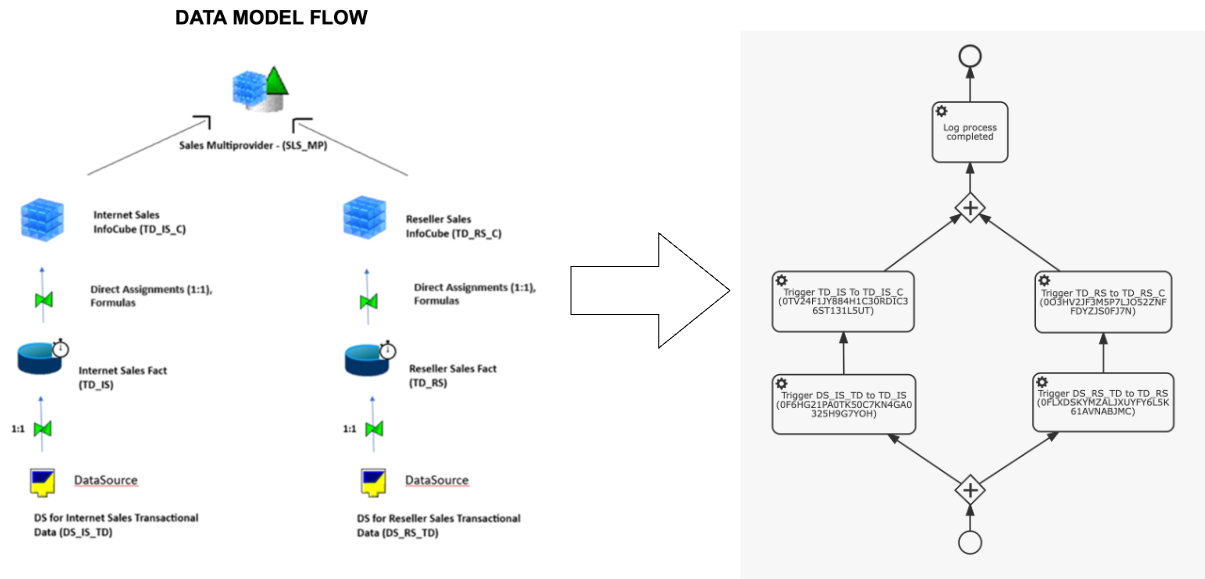
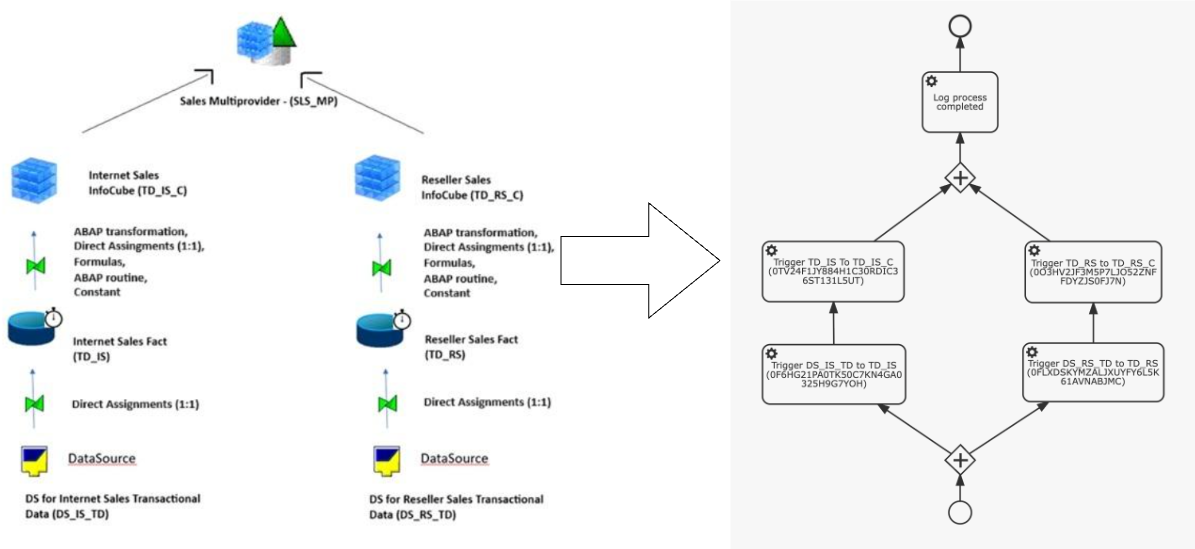
update data model flow diagrams

diff --git a/docs/technology/2025/07/kronos-bw-migration.md b/docs/technology/2025/07/kronos-bw-migration.md
@@ -104,7 +104,7 @@ Sales Channels:
 Each channel has its own independent data acquisition and processing pipeline, yet they are ultimately consolidated for unified analysis.
 
    <a href="/images/2025-07-21-kronos-bw-migration/data-model-flow.png" target="_blank">
-   <img src="/images/2025-07-21-kronos-bw-migration/data-model-flow.png" alt="data-model-flow.png" style="width: 80%;">
+   <img src="/images/2025-07-21-kronos-bw-migration/data-model-flow.png" alt="data-model-flow.png" style="width: 90%;">
    </a>
 
 Data Flow Description:
@@ -133,7 +133,7 @@ The InfoCubes for both Internet and Reseller Sales are combined into a Multiprov
 - Compare performance between Internet and Reseller sales.
 - Generate comprehensive reports for management insights.
 
-You can find more details about the scenario [in the description file here.](https://github.com/codbex/codbex-sample-kronos-bw-sales-migration/blob/017d99aea61e819e00af3153930b8d149c93a86b/docs/scenario/Description.docx.pdf)
+You can find more details about the scenario [in the description file here.](https://github.com/codbex/codbex-sample-kronos-bw-sales-migration/blob/c7d9e1720b4996da1dfb764636ba320bcb181e06/docs/scenario/Description.docx.pdf)
 
 ### Sample Project Implementation
 
@@ -184,7 +184,7 @@ Once the Kronos instance is up and running, you can open and run the sample proj
    Since this is an asynchronous process, it may take a few seconds for all components to be fully initialized.
 
 #### Define BW Objects in the Target Platform
-To simplify the setup and avoid using external data migration tools, all BW structures used in the scenario—such as tables for DataSources, DSOs, and Cubes—are predefined in the Kronos [Database Schema Model (DSM)](/documentation/platform/artefacts/dsm) file: [sales/db/db-schema.dsm](https://github.com/codbex/codbex-sample-kronos-bw-sales-migration/blob/017d99aea61e819e00af3153930b8d149c93a86b/sales/db/db-schema.dsm):
+To simplify the setup and avoid using external data migration tools, all BW structures used in the scenario—such as tables for DataSources, DSOs, and Cubes—are predefined in the Kronos [Database Schema Model (DSM)](/documentation/platform/artefacts/dsm) file: [sales/db/db-schema.dsm](https://github.com/codbex/codbex-sample-kronos-bw-sales-migration/blob/c7d9e1720b4996da1dfb764636ba320bcb181e06/sales/db/db-schema.dsm):
 <a href="/images/2025-07-21-kronos-bw-migration/dsm.png" target="_blank">
 <img src="/images/2025-07-21-kronos-bw-migration/dsm.png" alt="dsm.png">
 </a>
@@ -192,23 +192,23 @@ To simplify the setup and avoid using external data migration tools, all BW stru
 This schema is automatically applied when the project is published, creating all required tables in the target platform with no manual setup needed.
 
 #### Import Sample Data
-Following the same approach, sample data for the scenario is provided as CSV files located in dir: [sales/db/](https://github.com/codbex/codbex-sample-kronos-bw-sales-migration/blob/017d99aea61e819e00af3153930b8d149c93a86b/sales/db)
+Following the same approach, sample data for the scenario is provided as CSV files located in dir: [sales/db/](https://github.com/codbex/codbex-sample-kronos-bw-sales-migration/blob/c7d9e1720b4996da1dfb764636ba320bcb181e06/sales/db)
 
 These CSV files are automatically imported into the target platform during project publishing. This makes it possible to initialize the environment without relying on any external data migration tools.
 
-All CSV files which are used are configured in [CSVIM](/documentation/platform/artefacts/csvim) file [sales/db/data.csvim](https://github.com/codbex/codbex-sample-kronos-bw-sales-migration/blob/017d99aea61e819e00af3153930b8d149c93a86b/sales/db/data.csvim)
+All CSV files which are used are configured in [CSVIM](/documentation/platform/artefacts/csvim) file [sales/db/data.csvim](https://github.com/codbex/codbex-sample-kronos-bw-sales-migration/blob/c7d9e1720b4996da1dfb764636ba320bcb181e06/sales/db/data.csvim)
 
 ✅ This simplified setup works out of the box across supported platforms, including H2, Snowflake, PostgreSQL, and HANA.
 
 #### Export BW Transformation Logic
 The ABAP transformation logic originally defined in SAP BW is exported using a dedicated export tool.
-In the sample project, the exported transformations are stored as `.abap` files in the following directory: [sales/src/](https://github.com/codbex/codbex-sample-kronos-bw-sales-migration/blob/017d99aea61e819e00af3153930b8d149c93a86b/sales/src)
+In the sample project, the exported transformations are stored as `.abap` files in the following directory: [sales/src/](https://github.com/codbex/codbex-sample-kronos-bw-sales-migration/blob/c7d9e1720b4996da1dfb764636ba320bcb181e06/sales/src)
 
 #### Transpile ABAP to JavaScript
 When the project is published in Kronos, the exported ABAP transformation logic from dir `sales/src/` is **automatically transpiled to JavaScript**. This makes it executable within Kronos during ETL processing.
 
 The transpilation is triggered by the build scripts defined in the project's configuration file
-[sales/project.json](https://github.com/codbex/codbex-sample-kronos-bw-sales-migration/blob/017d99aea61e819e00af3153930b8d149c93a86b/sales/project.json) when the project is published.
+[sales/project.json](https://github.com/codbex/codbex-sample-kronos-bw-sales-migration/blob/c7d9e1720b4996da1dfb764636ba320bcb181e06/sales/project.json) when the project is published.
 
 The generated JavaScript files are stored in the `sales/dist/` folder of the project.
 <a href="/images/2025-07-21-kronos-bw-migration/dist-folder.png" target="_blank">
@@ -216,12 +216,12 @@ The generated JavaScript files are stored in the `sales/dist/` folder of the pro
 </a>
 
 #### Rebuild Transformations as ETL Camel Routes
-Each transformation in the sample scenario is implemented as a reusable ETL [Camel route](/documentation/platform/artefacts/camel) located at [sales/etl/etl-route.camel](https://github.com/codbex/codbex-sample-kronos-bw-sales-migration/blob/017d99aea61e819e00af3153930b8d149c93a86b/sales/etl/etl-route.camel). The route perform a simplified [Extract → Transform → Load](https://en.wikipedia.org/wiki/Extract,_transform,_load) flow:
-- The **extract step** reads all data from the source table (full load used for simplicity) - [sales/etl/data-extractor.ts](https://github.com/codbex/codbex-sample-kronos-bw-sales-migration/blob/017d99aea61e819e00af3153930b8d149c93a86b/sales/etl/data-extractor.ts)
-- The **transform step** invokes the corresponding transpiled ABAP transformation logic (in JavaScript) [sales/etl/transform-entries.ts](https://github.com/codbex/codbex-sample-kronos-bw-sales-migration/blob/017d99aea61e819e00af3153930b8d149c93a86b/sales/etl/transform-entries.ts)
-- The **load step** writes the transformed results into the defined target table [sales/etl/data-loader.ts](https://github.com/codbex/codbex-sample-kronos-bw-sales-migration/blob/017d99aea61e819e00af3153930b8d149c93a86b/sales/etl/data-loader.ts)
+Each transformation in the sample scenario is implemented as a reusable ETL [Camel route](/documentation/platform/artefacts/camel) located at [sales/etl/etl-route.camel](https://github.com/codbex/codbex-sample-kronos-bw-sales-migration/blob/c7d9e1720b4996da1dfb764636ba320bcb181e06/sales/etl/etl-route.camel). The route perform a simplified [Extract → Transform → Load](https://en.wikipedia.org/wiki/Extract,_transform,_load) flow:
+- The **extract step** reads all data from the source table (full load used for simplicity) - [sales/etl/data-extractor.ts](https://github.com/codbex/codbex-sample-kronos-bw-sales-migration/blob/c7d9e1720b4996da1dfb764636ba320bcb181e06/sales/etl/data-extractor.ts)
+- The **transform step** invokes the corresponding transpiled ABAP transformation logic (in JavaScript) [sales/etl/transform-entries.ts](https://github.com/codbex/codbex-sample-kronos-bw-sales-migration/blob/c7d9e1720b4996da1dfb764636ba320bcb181e06/sales/etl/transform-entries.ts)
+- The **load step** writes the transformed results into the defined target table [sales/etl/data-loader.ts](https://github.com/codbex/codbex-sample-kronos-bw-sales-migration/blob/c7d9e1720b4996da1dfb764636ba320bcb181e06/sales/etl/data-loader.ts)
 
-Each step uses helper functions implemented in [sales/etl/etl.ts](https://github.com/codbex/codbex-sample-kronos-bw-sales-migration/blob/017d99aea61e819e00af3153930b8d149c93a86b/sales/etl/etl.ts).
+Each step uses helper functions implemented in [sales/etl/etl.ts](https://github.com/codbex/codbex-sample-kronos-bw-sales-migration/blob/c7d9e1720b4996da1dfb764636ba320bcb181e06/sales/etl/etl.ts).
 These functions leverage the [codbex Database API](/documentation/platform/sdk/db/) to access and manipulate data.
 
 The route itself is parameterized — it accepts the source table, target table, and transformation ID as exchange properties, allowing it to be reused across different flows.
@@ -237,7 +237,7 @@ Check out our [Tips & Tricks for the Integration Modeler](/documentation/tooling
 #### Model BW Data Flows as BPM Processes
 In SAP BW, data flows are often tightly orchestrated—from DataSources through DSOs to Cubes or MultiProviders—in a specific execution sequence. To replicate this orchestration in Kronos, these flows are reimplemented as BPM processes that preserve the original order of execution.
 
-In the demo project, this flow is modeled in the BPM file [sales/bpmn/sls_mp.bpmn](https://github.com/codbex/codbex-sample-kronos-bw-sales-migration/blob/017d99aea61e819e00af3153930b8d149c93a86b/sales/bpmn/sls_mp.bpmn).
+In the demo project, this flow is modeled in the BPM file [sales/bpmn/sls_mp.bpmn](https://github.com/codbex/codbex-sample-kronos-bw-sales-migration/blob/c7d9e1720b4996da1dfb764636ba320bcb181e06/sales/bpmn/sls_mp.bpmn).
 <a href="/images/2025-07-21-kronos-bw-migration/bpmn.png" target="_blank">
 <img src="/images/2025-07-21-kronos-bw-migration/bpmn.png" alt="bpmn.png"  style="width: 70%;">
 </a>
@@ -246,7 +246,7 @@ Each BPM task:
 - Triggers the defined in the previous step ETL Camel route
 - Passes different parameters for source/target table names and the transformation ID depending on the current step
 
-The BPM tasks themselves are stored in the [sales/bpmn](https://github.com/codbex/codbex-sample-kronos-bw-sales-migration/blob/017d99aea61e819e00af3153930b8d149c93a86b/sales/bpmn) folder. Each task uses the codbex Integrations API to programmatically trigger the route execution.
+The BPM tasks themselves are stored in the [sales/bpmn](https://github.com/codbex/codbex-sample-kronos-bw-sales-migration/blob/c7d9e1720b4996da1dfb764636ba320bcb181e06/sales/bpmn) folder. Each task uses the codbex Integrations API to programmatically trigger the route execution.
 
 This approach ensures a 1:1 match with the original BW process chains, while offering clean modularity in Kronos.
 <a href="/images/2025-07-21-kronos-bw-migration/1-to-1.png" target="_blank">
@@ -266,11 +266,11 @@ Check out our [BPM Modeler Tips & Tricks](/documentation/tooling/processes/model
 
 #### Run the Data Flow via BPM Process
 Once everything is published, the full data pipeline—modeled as a BPM process—can be executed through a dedicated UI form:
-- A simple [user-facing form](/documentation/tooling/modeling/form) is modeled in the file: [sales/sls_mp-process.form](https://github.com/codbex/codbex-sample-kronos-bw-sales-migration/blob/017d99aea61e819e00af3153930b8d149c93a86b/sales/sls_mp-process.form)
+- A simple [user-facing form](/documentation/tooling/modeling/form) is modeled in the file: [sales/sls_mp-process.form](https://github.com/codbex/codbex-sample-kronos-bw-sales-migration/blob/c7d9e1720b4996da1dfb764636ba320bcb181e06/sales/sls_mp-process.form)
   <a href="/images/2025-07-21-kronos-bw-migration/form-modeler.png" target="_blank">
   <img src="/images/2025-07-21-kronos-bw-migration/form-modeler.png" alt="form-modeler.png">
   </a>
-- When you open the form and click the `Regenerate` button, the corresponding UI is generated in the [sales/gen](https://github.com/codbex/codbex-sample-kronos-bw-sales-migration/blob/017d99aea61e819e00af3153930b8d149c93a86b/sales/gen) directory
+- When you open the form and click the `Regenerate` button, the corresponding UI is generated in the [sales/gen](https://github.com/codbex/codbex-sample-kronos-bw-sales-migration/blob/c7d9e1720b4996da1dfb764636ba320bcb181e06/sales/gen) directory
 - To access the form, open this URL in your browser: [http://localhost/services/web/sales/gen/sls_mp-process/forms/sls_mp-process/index.html](http://localhost/services/web/sales/gen/sls_mp-process/forms/sls_mp-process/index.html)
   <a href="/images/2025-07-21-kronos-bw-migration/process-form.png" target="_blank">
   <img src="/images/2025-07-21-kronos-bw-migration/process-form.png" alt="process-form.png">
